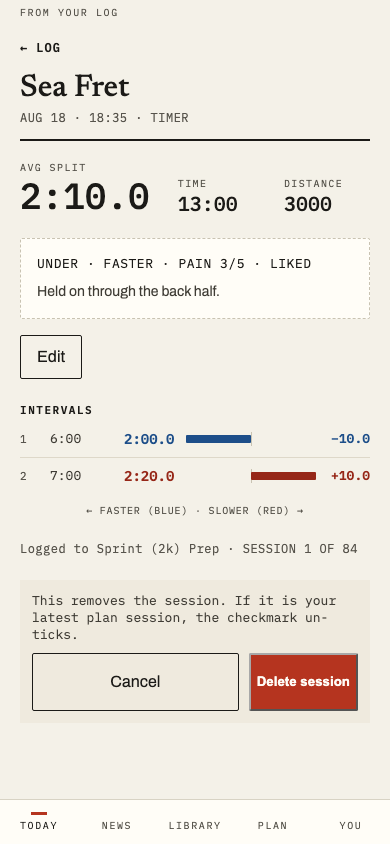
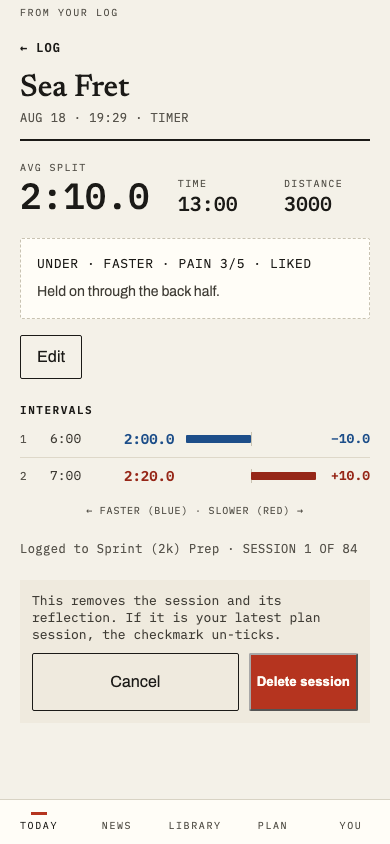
fix: the linked delete confirm names the reflection too
PM final-PR gate condition C2 ruled the two delete-confirm copy
variants must name the same loss: the unlinked variant already said
"and its reflection", the plan-linked variant omitted it. Both now
read "This removes the session and its reflection...".

- app/src/log/FromTheLog.tsx: linked confirm copy updated
- app/src/log/FromTheLog.test.tsx: LINKED_COPY constant (honesty
  table + staging tests all key off it)
- app/e2e/log.spec.ts, app/e2e/screenshots.spec.ts: hardcoded string
  assertions updated
- docs/screenshots/log-delete-confirm.png: recaptured
- docs/superpowers/specs/2026-08-18-log-delete-design.md: §1 copy
  cell reconciled

Claude-Session: https://claude.ai/code/session_01UEXqdgDid4Qjd8D5uoRZ3H

Changed region(s): [[0.0923, 0.7085, 0.8615, 0.7701], [0.3077, 0.1232, 0.3385, 0.154], [0.2462, 0.1232, 0.2769, 0.154]]

diff --git a/app/src/log/FromTheLog.tsx b/app/src/log/FromTheLog.tsx
@@ -445,7 +445,7 @@ export default function FromTheLog() {
             <div className="baseline-confirm log-delete-confirm">
               <p className="baseline-confirm-line">
                 {row.planKey !== null
-                  ? "This removes the session. If it is your latest plan session, the checkmark un-ticks."
+                  ? "This removes the session and its reflection. If it is your latest plan session, the checkmark un-ticks."
                   : "This removes the session and its reflection."}
               </p>
               {deleteError !== null && (

diff --git a/app/src/log/FromTheLog.test.tsx b/app/src/log/FromTheLog.test.tsx
@@ -664,7 +664,7 @@ describe("FromTheLog — criterion 2 (a v0.11.0, all-null-hero row)", () => {
 // button label are quoted verbatim from the spec's own table; a self-
 // mutation swapping them is this task's own red-provable target.
 const LINKED_COPY =
-  "This removes the session. If it is your latest plan session, the checkmark un-ticks.";
+  "This removes the session and its reflection. If it is your latest plan session, the checkmark un-ticks.";
 const UNLINKED_COPY = "This removes the session and its reflection.";
 const DELETE_BUTTON_NAME = "Delete session";
 

diff --git a/app/e2e/log.spec.ts b/app/e2e/log.spec.ts
@@ -961,7 +961,7 @@ test("§5.3 leg (a) terminal: deleting the log that advanced the plan un-ticks t
   const confirmPanel = page.locator(".log-delete-confirm");
   await expect(confirmPanel).toBeVisible();
   await expect(confirmPanel).toContainText(
-    "This removes the session. If it is your latest plan session, the checkmark un-ticks.",
+    "This removes the session and its reflection. If it is your latest plan session, the checkmark un-ticks.",
   );
   await confirmPanel.getByRole("button", { name: "Delete session" }).click();
 

diff --git a/app/e2e/screenshots.spec.ts b/app/e2e/screenshots.spec.ts
@@ -1875,7 +1875,7 @@ test("log-delete-confirm", async ({ page }) => {
   await page.getByRole("button", { name: "Delete session" }).click();
   await expect(
     page.getByText(
-      "This removes the session. If it is your latest plan session, the checkmark un-ticks.",
+      "This removes the session and its reflection. If it is your latest plan session, the checkmark un-ticks.",
     ),
   ).toBeVisible();
   await expect(page.getByRole("button", { name: "Cancel" })).toBeVisible();

diff --git a/docs/superpowers/specs/2026-08-18-log-delete-design.md b/docs/superpowers/specs/2026-08-18-log-delete-design.md
@@ -32,7 +32,7 @@ that should never have existed can stop existing, and stop counting.
 | Where | The from-the-log view (`/today/log/:id`) ONLY — never on list rows, never on the live post-workout summary (a just-rowed session's remedy is Discard, which already exists there) |
 | Placement | Bottom of the view, below the plan footer — last, quiet, away from Edit |
 | Idiom | The house staged destructive confirm — `.baseline-confirm`/`.baseline-actions`: first tap stages, copy names the exact consequence, Cancel + confirm pair, 44px targets. **Reconciled 2026-08-18 (Task 2 review handoff):** the pattern is `WorkoutDetail.tsx`'s own **"Replace session"** panel (`replaceStage`), not its delete button — that button moved to the armed-in-place L4 idiom in fix round 1 (DEVIATIONS row 42) and no longer matches this description at all |
-| Copy, row carries plan linkage (`plan_key` non-null on the fetched row — client-decidable from the one fetch it already makes) | `This removes the session. If it is your latest plan session, the checkmark un-ticks.` confirm button `Delete session` |
+| Copy, row carries plan linkage (`plan_key` non-null on the fetched row — client-decidable from the one fetch it already makes) | `This removes the session and its reflection. If it is your latest plan session, the checkmark un-ticks.` confirm button `Delete session` |
 | Copy, no linkage | `This removes the session and its reflection.` confirm button `Delete session` |
 | Who decides the un-count | THE SERVER, at delete time (antagonist B3: the client cannot evaluate the newest-wins condition from the fetches it has, and cross-device staleness makes advance agreement impossible by construction). The conditional copy promises nothing the server may decline; `DELETE` responds `200 {unCounted: boolean}` and the client's post-delete state reflects what actually happened |
 | In-flight | Confirm disabled while the DELETE is in flight; failure re-enables with the server's message — EXCEPT a 404, which means another tab already deleted it: treat as success-and-navigate (antagonist minor: an error toast for an operation that succeeded) |
